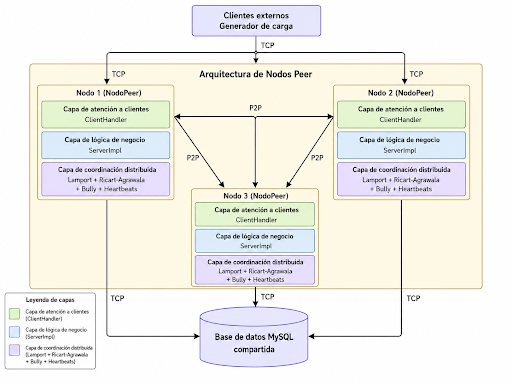
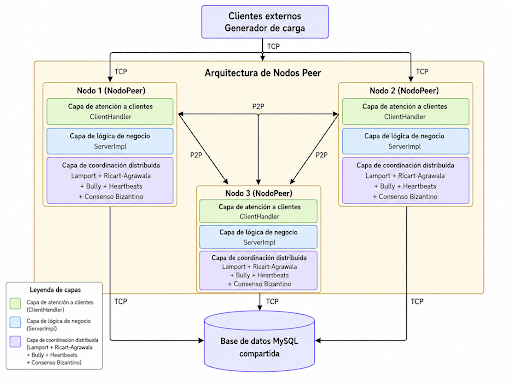
Fix markdown formatting and image relative paths

Changed region(s): [[0.0, 0.0, 0.9688, 0.9688]]

diff --git a/Informe/INFORME.md b/Informe/INFORME.md
@@ -47,9 +47,10 @@ En este proyecto se optó por utilizar relojes de Lamport debido a que permiten 
 
 Por ejemplo, al recibir un mensaje P2P de otro nodo, el servidor sincroniza su reloj local de acuerdo a la regla de Lamport (tiempo = max(local, recibido) + 1):
 
+```java
 long lamportRecibido = msg.obtenerTiempoLamport();
 nodo.getReloj().actualizar(lamportRecibido);
-
+```
 
 Esta decisión fue adecuada para el proyecto, ya que los algoritmos implementados, como Ricart-Agrawala y la coordinación entre nodos, requieren comparar el orden de solicitudes y respuestas distribuidas, pero no necesariamente mantener el historial causal completo que entregan los relojes vectoriales. Por ello, Lamport permitió reducir la complejidad de implementación y, al mismo tiempo, mantener trazabilidad y verificabilidad en los logs del sistema.
   
@@ -63,14 +64,14 @@ La transparencia de acceso se logra porque los clientes interactúan con el sist
 
 Desde la perspectiva del cliente, la conexión y el intercambio de mensajes se abstraen mediante flujos de objetos serializados (ObjectOutputStream y ObjectInputStream):
 
+```java
 socket = new Socket(host, puerto);
 out    = new ObjectOutputStream(socket.getOutputStream());
 in     = new ObjectInputStream(socket.getInputStream());
 
-
 out.writeObject(new Request(TipoRequest.COMPRAR_JUEGO, parametros));
 Response res = (Response) in.readObject();
-
+```
 
 De esta forma, la invocación a operaciones como búsqueda de juegos, consulta de precios regionales o compra de juegos se mantiene uniforme, ya que todas siguen la misma estructura de petición y respuesta. Esto permite que el acceso a las funciones del sistema sea consistente y homogéneo, ocultando parcialmente la complejidad interna de la lógica distribuida y de los algoritmos de coordinación implementados entre nodos.
 
@@ -85,7 +86,7 @@ La transparencia de ubicación se cumple de manera parcial, ya que las funciones
 A continuación, se presenta el diagrama físico de red que modela los flujos de comunicación descritos, ilustrando los protocolos, puertos de interconexión y límites de la red local frente a la red externa.
 
 
-![Diagrama Físico del Sistema Distribuido](Informe/Images/modelo_fisico.png)
+![Diagrama Físico del Sistema Distribuido](Images/modelo_fisico.png)
 
 
 5.1.1 Identificación de Nodos
@@ -117,7 +118,7 @@ Por otra parte, la capa de coordinación distribuida permite que los nodos se co
 
 Finalmente, todos los nodos acceden a una base de datos MySQL compartida, lo que centraliza la persistencia de la información. De esta manera, la arquitectura combina comunicación cliente-servidor para la recepción de solicitudes, comunicación Peer-to-Peer para la coordinación distribuida y una capa de persistencia centralizada para el almacenamiento de datos. Esta organización permite que el sistema atienda múltiples clientes de manera concurrente, mantenga consistencia en operaciones críticas y tolere fallos básicos dentro del clúster.
 
-![Diagrama Arquitectónico del Sistema Distribuido](Informe/Images/modelo_arqui.png)
+![Diagrama Arquitectónico del Sistema Distribuido](Images/modelo_arqui.png)
 
 5.2.1 Capa de atención a clientes
 La capa de atención a clientes corresponde al punto de entrada de las solicitudes externas al sistema. En esta capa se encuentra el componente ClientHandler, encargado de recibir las conexiones provenientes de clientes externos o del generador de carga mediante comunicación TCP.
@@ -183,14 +184,14 @@ Esta función crítica ilustra la aplicación práctica del ordenamiento causal 
 
 Para lograrlo, cuando el ClientHandler recibe una petición de COMPRAR_JUEGO, el servidor adjunta el valor actual del Reloj de Lamport y solicita acceso a la Sección Crítica mediante el algoritmo de Ricart-Agrawala. El nodo transmite a todos sus pares un mensaje RA_PETICION y entra en estado de espera. Una vez que todos los demás nodos evalúan la marca de tiempo lógica (cediendo el turno al de menor timestamp) y responden con RA_RESPUESTA, el nodo original obtiene el acceso exclusivo. En ese momento, ejecuta la transacción de lectura y escritura contra la Base de Datos MySQL, descuenta el saldo, asigna el juego, y finalmente libera el recurso enviando el respectivo aviso a los demás nodos, manteniendo así una estricta coherencia e integridad transaccional que obedece al orden de eventos de Lamport
 
-![Diagrama de Secuencia: "Compra de Juegos (Transacción con Exclusión Mutua)"](Informe/Images/compra_juego.png)
+![Diagrama de Secuencia: "Compra de Juegos (Transacción con Exclusión Mutua)"](Images/compra_juego.png)
 
 5.3.2 Diagrama de secuencia para “Comparar precios en múltiples países”
 Esta función tiene como objetivo obtener el precio de un juego específico en múltiples países de forma simultánea. El cliente envía una solicitud al servidor a través del ClientHandler, que la delega al ServerImpl. Este crea un pool de hasta 20 hilos paralelos, asignando un hilo por cada país solicitado. Cada hilo consulta de forma independiente la Steam API para obtener el precio del juego en la moneda local del país correspondiente, y luego convierte ese valor a USD usando el método convertirPrecioAUSD. Una vez que todos los hilos han completado su consulta, el servidor recopila los resultados en una lista y la retorna al cliente.
 La concurrencia en esta función es importante para su eficiencia, ya que en lugar de consultar los países uno por uno de forma secuencial, todas las solicitudes a la Steam API se realizan en paralelo, reduciendo significativamente el tiempo total de respuesta. Es relevante cuando se consultan muchos países a la vez, ya que el cuello de botella principal es la latencia de red hacia la API externa.
 
 
-![Diagrama de Secuencia: "Comparar precios en múltiples países"](Informe/Images/comparar_paises.png)
+![Diagrama de Secuencia: "Comparar precios en múltiples países"](Images/comparar_paises.png)
 
 6.  Análisis fundamental
 
@@ -372,9 +373,9 @@ Mensajes de Coordinación: La exclusión mutua distribuida generó un intenso tr
 Recuperación en Falla Inducida: Tras apagar el Nodo-3 de manera deliberada (marcado como “NO DISPONIBLE” en la tabla), el sistema reconoció el fallo pasados los latidos máximos configurados (6 segundos). Al detectar la caída, el mecanismo alDetectarFalloDePar liberó los bloqueos del nodo inactivo, permitiendo al sistema continuar operando. La tasa de error del 33.13% se explica por las peticiones que estaban siendo atendidas por dicho nodo al momento de su caída, o aquellas que superaron su timeout durante los segundos de detección, demostrando una recuperación exitosa.
 
 
-![Tabla de Reporte Prueba de Carga](/Informe/Images/tabla_prueba_carga.png)
+![Tabla de Reporte Prueba de Carga](Images/tabla_prueba_carga.png)
 
-![Tabla de Métricas de Coordinación distribuida (Ricart-Agrawala)](/Informe/Images/tabla_ricart_walala.png)
+![Tabla de Métricas de Coordinación distribuida (Ricart-Agrawala)](Images/tabla_ricart_walala.png)
 
 
 7.  Conclusión
@@ -386,5 +387,5 @@ Finalmente, el análisis fundamental de la plataforma subraya la importancia de 
 Anexos
 Anexo 1: Diagrama de Entidad-Relación de la base de datos
 
-![Diagrama de Entidad-Relación: "Base de datos Steam"](Informe/Images/diagrama_bd.png)
+![Diagrama de Entidad-Relación: "Base de datos Steam"](Images/diagrama_bd.png)
 
